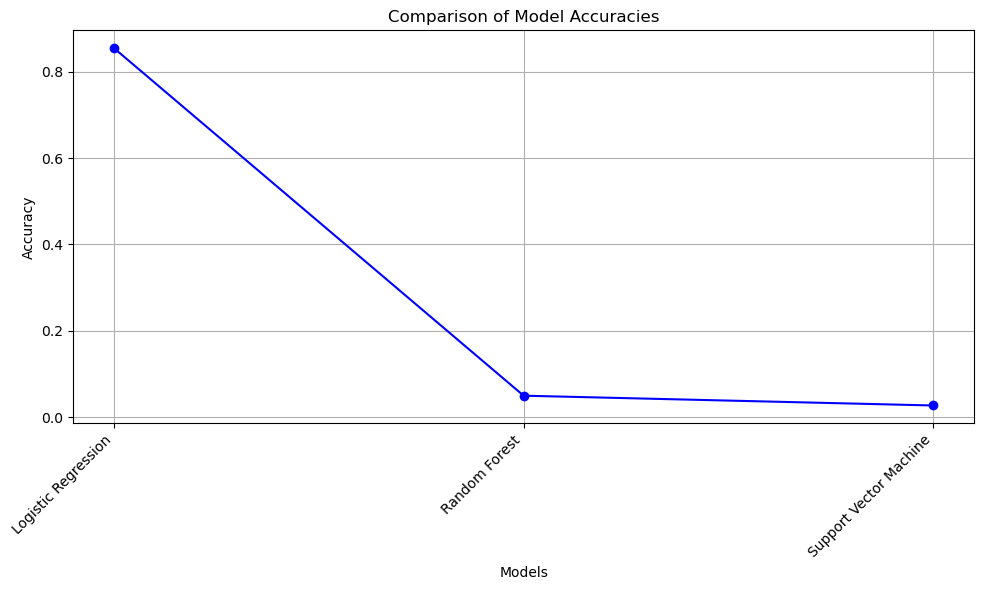
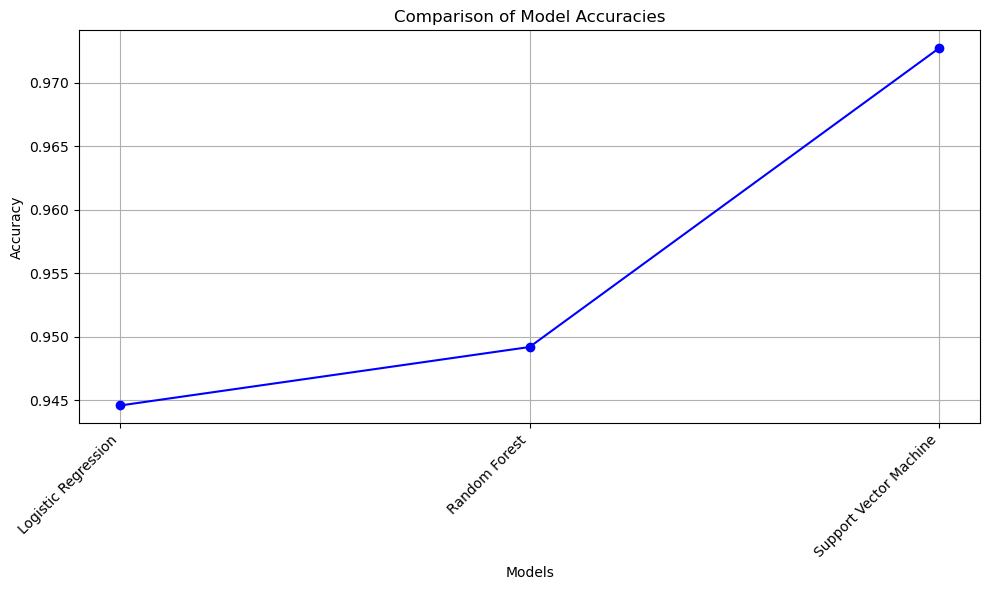
adding README

diff --git a/F1 Visa Experiences/Model/README.md b/F1 Visa Experiences/Model/README.md
@@ -1,0 +1,72 @@
+
+  
+
+**F1 Visa Experiences**
+
+  
+
+**GOAL**
+
+  
+Finding out if the review is positive, negative or neutral.
+  
+
+**DATASET**
+
+  
+
+https://www.kaggle.com/datasets/adiamaan/f1-visa-experiences
+
+  
+
+  
+
+**WORK DONE**
+
+* Analyzed the data and found insights and plotted graphs accordingly etc.
+* Preprocessed the data to make it fit for training for ML models.
+* Next trained model with algorithms with default parameters:
+	* Logistic Regression
+	* Linear SVM
+	* Random Forest
+
+* In this, Support Vector Machine(SVM) performed the best with 97.27% accuracy. (Refer : `visa_experience.ipynb`)
+  
+
+**MODELS USED**
+
+1. Logistic Regression : Logistic regression is easier to implement, interpret, and very efficient to train. It is **very fast at classifying unknown records**.
+2. Linear SVM : SVM performs well on classification problems when size of dataset is not too large.
+3. Random Forest : It **provides higher accuracy through cross validation**. Random forest classifier will handle the missing values and maintain the accuracy of a large proportion of data. If there are more trees, it won't allow over-fitting trees in the model.
+
+**LIBRARIES NEEDED**
+
+* Numpy
+* Pandas
+* Matplotlib
+* scikit-learn
+* nltk
+  
+  
+
+**PLOTS**
+
+![Model Accuracies](../Images/final_accuracy.png "Model Accuracies")
+
+
+**CONCLUSION**
+
+  
+
+We analyse the data, preprocess and visualize the features. We then investigated two predictive models. The data was split into two parts, a train set and a test set.
+
+We started with Logistic Regression, Random Forest Classifier and SVM and SVM had the higgest accuracy followed by Random Forest Classifier.
+
+  
+
+**CONTRIBUTION BY**
+
+*Churnika S Mundas*
+
+  
+[![LinkedIn](https://img.shields.io/badge/linkedin-%230077B5.svg?style=for-the-badge&logo=linkedin&logoColor=white)](https://www.linkedin.com/in/churnika-mundas-64767b246/) [![GitHub](https://img.shields.io/badge/github-%23121011.svg?style=for-the-badge&logo=github&logoColor=white)](https://github.com/stackaway) 
